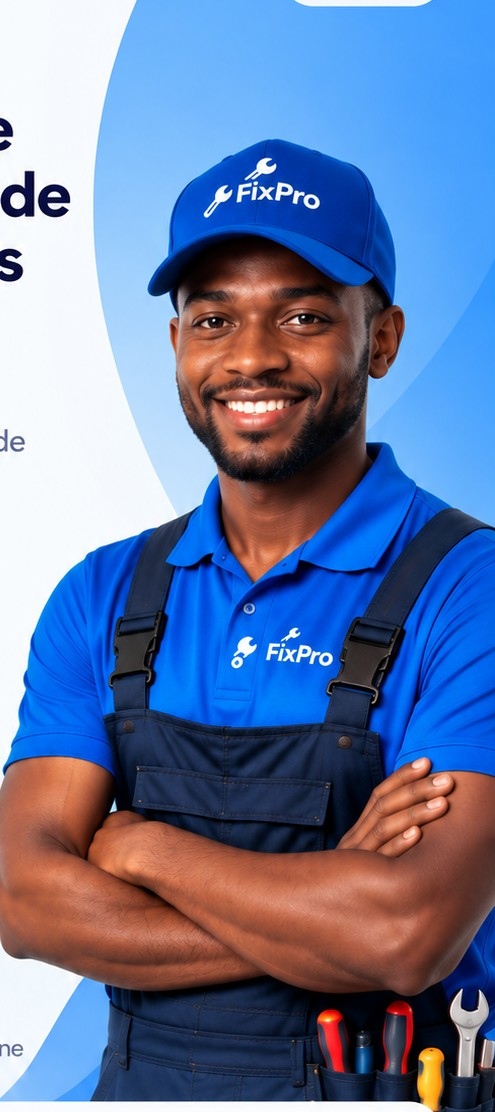
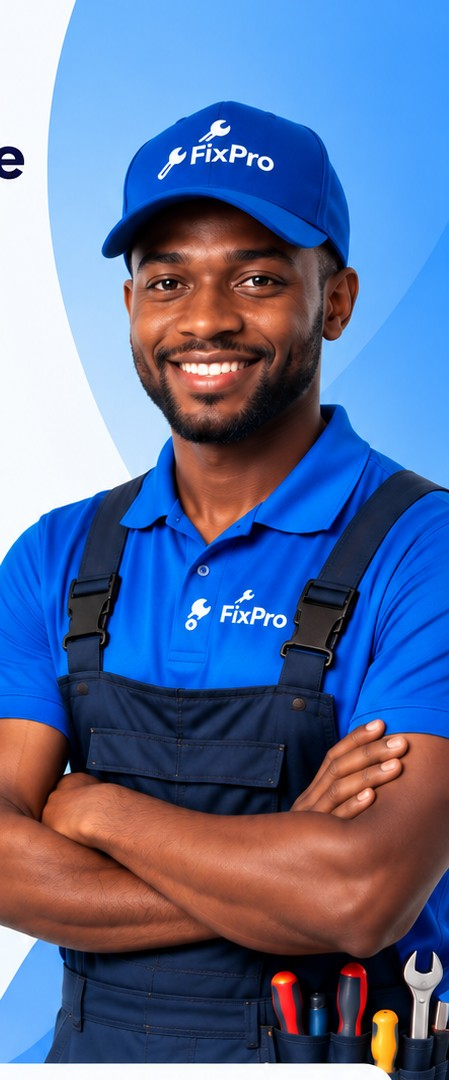
/devenir-technicien : corrige le debordement (bouton coupe) et le titre
Retour client (capture reelle) : sur telephone etroit le bouton
"Commencer l'inscription" etait coupe, "Se connecter" invisible, et
le titre cassait mal ("communaute" / "de" seuls).

- polices en clamp(rem, vw, rem) -> le titre et les textes s'adaptent
  a la largeur, plus de sur-decoupage ("communaute de" reste ensemble)
- image technicien : <img> recadree serree (personnage entier + outils),
  calee en bas a droite (bottom) au lieu de object-fit cover qui zoomait
- forme bleue = element CSS .dt-bg derriere (monte jusqu'en haut, grand
  arrondi bas-gauche facon maquette)
- blocs plus compacts + media queries hauteur -> tout tient dans un
  ecran, bouton + "Se connecter" toujours visibles (360/390/412/512)

Frontend only. Tests : 115 passed.

diff --git a/templates/devenir_technicien.html b/templates/devenir_technicien.html
@@ -38,19 +38,24 @@
       display: flex; flex-direction: column;
     }
 
-    /* --- Visuel technicien : la forme bleue + le personnage complet
-           (casquette, bras croisés, ceinture à outils avec la clé) sont
-           dans l'image. Elle est DEVANT le texte ; seule la zone claire
-           reste en fond. Collée en haut à droite, débordant des bords,
-           elle descend jusqu'au niveau de la carte / du bouton. --- */
+    /* --- Forme bleue DERRIÈRE : monte jusqu'en haut à droite, arrondie --- */
+    .dt-bg {
+      position: absolute; z-index: 0; pointer-events: none;
+      top: calc(-2px - env(safe-area-inset-top)); right: -2px;
+      width: clamp(60%, 66vw, 70%); height: clamp(58%, 66vh, 74%);
+      background: linear-gradient(160deg, #93CAFF 0%, #66B3FE 52%, #3F98F6 100%);
+      border-bottom-left-radius: 88% 72%;
+    }
+
+    /* --- Personnage : image détourée (casquette, bras croisés, ceinture
+           à outils avec la clé), DEVANT le texte, calée à droite et en bas
+           pour qu'on voie le personnage entier + les outils. --- */
     .dt-photo {
       position: absolute; z-index: 4; pointer-events: none;
-      top: calc(-14px - env(safe-area-inset-top)); right: -20px;
-      height: calc(100dvh + 24px + env(safe-area-inset-top) + env(safe-area-inset-bottom));
-      width: clamp(52%, 56vw, 59%); max-width: 296px;
-      object-fit: cover; object-position: 82% 0%;
-      -webkit-mask-image: linear-gradient(90deg, transparent 0, transparent 6%, rgba(0,0,0,.55) 24%, #000 46%, #000 100%);
-              mask-image: linear-gradient(90deg, transparent 0, transparent 6%, rgba(0,0,0,.55) 24%, #000 46%, #000 100%);
+      right: -20px; bottom: clamp(94px, 15vh, 148px);
+      width: clamp(50%, 55vw, 59%); max-width: 310px; height: auto;
+      -webkit-mask-image: linear-gradient(90deg, transparent 0, transparent 2%, rgba(0,0,0,.4) 20%, #000 40%, #000 100%);
+              mask-image: linear-gradient(90deg, transparent 0, transparent 2%, rgba(0,0,0,.4) 20%, #000 40%, #000 100%);
     }
 
     /* --- En-tête --- */
@@ -90,41 +95,41 @@
     /* --- Titre + accroche --- */
     .dt-hero { position: relative; z-index: 3; flex-shrink: 0; }
     .dt-hero h1 {
-      margin: 0; padding-right: 42%;
-      font-size: clamp(1.3rem, 3.7vh, 1.82rem); font-weight: 900; line-height: 1.1;
+      margin: 0; padding-right: 40%;
+      font-size: clamp(1.28rem, 5.7vw, 1.62rem); font-weight: 900; line-height: 1.12;
       letter-spacing: -.028em; color: var(--dt-ink); overflow-wrap: break-word;
     }
     .dt-hero h1 .b { color: var(--dt-blue); white-space: nowrap; }
     .dt-hero p {
-      margin: clamp(9px, 1.6vh, 15px) 0 0; padding-right: 44%;
-      font-size: clamp(.83rem, 1.85vh, .96rem); line-height: 1.45; color: var(--dt-muted);
+      margin: clamp(9px, 1.5vh, 14px) 0 0; padding-right: 43%;
+      font-size: clamp(.82rem, 3.5vw, .92rem); line-height: 1.42; color: var(--dt-muted);
     }
 
     /* --- Avantages --- */
     .dt-benefits {
       position: relative; z-index: 3; flex-shrink: 0; list-style: none;
-      margin: clamp(12px, 2.2vh, 20px) 0 0; padding: 0 46% 0 0;
-      display: flex; flex-direction: column; gap: clamp(7px, 1.7vh, 14px);
+      margin: clamp(12px, 2.1vh, 19px) 0 0; padding: 0 45% 0 0;
+      display: flex; flex-direction: column; gap: clamp(7px, 1.6vh, 13px);
     }
     .dt-benefits li { display: flex; gap: 13px; align-items: flex-start; }
     .dt-b-ic {
       flex-shrink: 0;
-      width: clamp(40px, 5.8vh, 48px); height: clamp(40px, 5.8vh, 48px);
+      width: clamp(38px, 5.4vh, 46px); height: clamp(38px, 5.4vh, 46px);
       border-radius: 14px; background: var(--dt-ice); color: var(--dt-blue);
       display: flex; align-items: center; justify-content: center;
     }
     .dt-b-ic svg { width: clamp(19px, 2.8vh, 22px); height: clamp(19px, 2.8vh, 22px); }
     .dt-b-tx { min-width: 0; padding-top: 2px; }
-    .dt-b-tx b { display: block; font-size: clamp(.92rem, 2vh, 1rem); font-weight: 800; color: var(--dt-ink); line-height: 1.2; }
-    .dt-b-tx span { display: block; font-size: clamp(.79rem, 1.65vh, .86rem); line-height: 1.35; color: var(--dt-muted); margin-top: 2px; }
+    .dt-b-tx b { display: block; font-size: clamp(.9rem, 4vw, .98rem); font-weight: 800; color: var(--dt-ink); line-height: 1.2; }
+    .dt-b-tx span { display: block; font-size: clamp(.77rem, 3.4vw, .84rem); line-height: 1.32; color: var(--dt-muted); margin-top: 2px; }
 
     /* --- Preuve sociale : carte pleine largeur, juste au-dessus du bouton.
            margin-top:auto -> pousse le bloc bas au bas de l'écran. --- */
     .dt-social {
       position: relative; z-index: 6; margin: auto 0 clamp(9px, 1.4vh, 12px);
-      background: #fff; border-radius: 18px; padding: clamp(11px, 1.8vh, 15px) 15px;
+      background: #fff; border-radius: 18px; padding: clamp(11px, 1.8vh, 15px) clamp(11px, 3.4vw, 15px);
       box-shadow: 0 18px 40px rgba(11,27,59,.14);
-      display: flex; align-items: center; gap: 12px; flex-shrink: 0;
+      display: flex; align-items: center; gap: clamp(8px, 2.6vw, 12px); flex-shrink: 0;
     }
     .dt-social-ic {
       flex-shrink: 0;
@@ -170,20 +175,19 @@
     }
     [hidden] { display: none !important; }
 
-    @media (max-width: 374px) {
+    @media (max-width: 380px) {
       .dt { padding-left: 16px; padding-right: 16px; }
-      .dt-hero h1 { padding-right: 36%; }
-      .dt-hero p { padding-right: 42%; }
-      .dt-benefits { padding-right: 44%; }
+      .dt-hero h1 { padding-right: 34%; }
+      .dt-hero p { padding-right: 38%; }
+      .dt-benefits { padding-right: 40%; }
     }
-    @media (max-height: 780px) {
-      .dt-photo { width: clamp(52%, 56vw, 60%); }
-      .dt-benefits { gap: clamp(7px, 1.5vh, 12px); }
+    @media (max-height: 760px) {
+      .dt-photo { bottom: clamp(88px, 13vh, 128px); }
+      .dt-benefits { gap: clamp(6px, 1.3vh, 11px); }
     }
-    @media (max-height: 680px) {
-      .dt-hero h1 { font-size: clamp(1.2rem, 5.3vw, 1.44rem); }
-      .dt-b-tx span { font-size: .78rem; line-height: 1.28; }
-      .dt-photo { width: clamp(48%, 52vw, 55%); }
+    @media (max-height: 670px) {
+      .dt-hero h1 { font-size: clamp(1.16rem, 5.2vw, 1.38rem); }
+      .dt-b-tx span { line-height: 1.26; }
     }
     @media (min-width: 700px) {
       .dt-cta, .dt-cta-foot { max-width: 440px; margin-left: auto; margin-right: auto; }
@@ -192,6 +196,7 @@
 </head>
 <body>
   <div class="dt">
+    <div class="dt-bg"></div>
     <img class="dt-photo" src="{{ url_for('static', filename='img/devenir-technicien-hero.jpg') }}"
          alt="Technicien FixPro, bras croisés, casquette et bleu de travail FixPro" />
 
